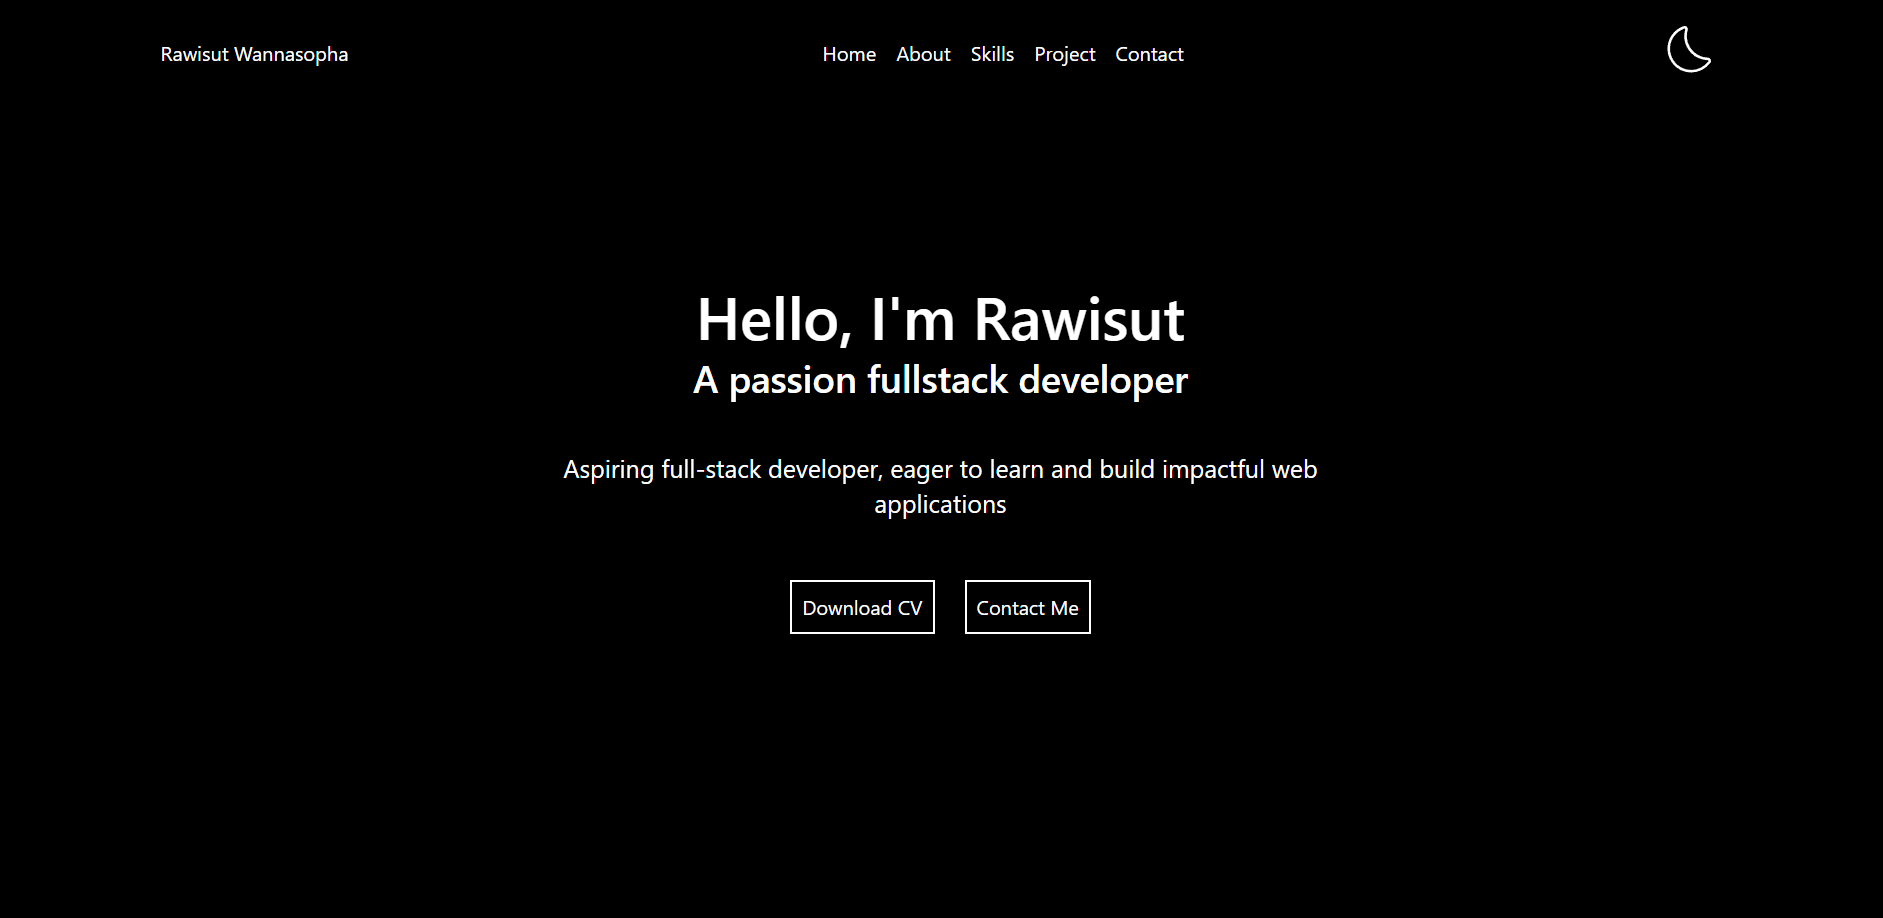
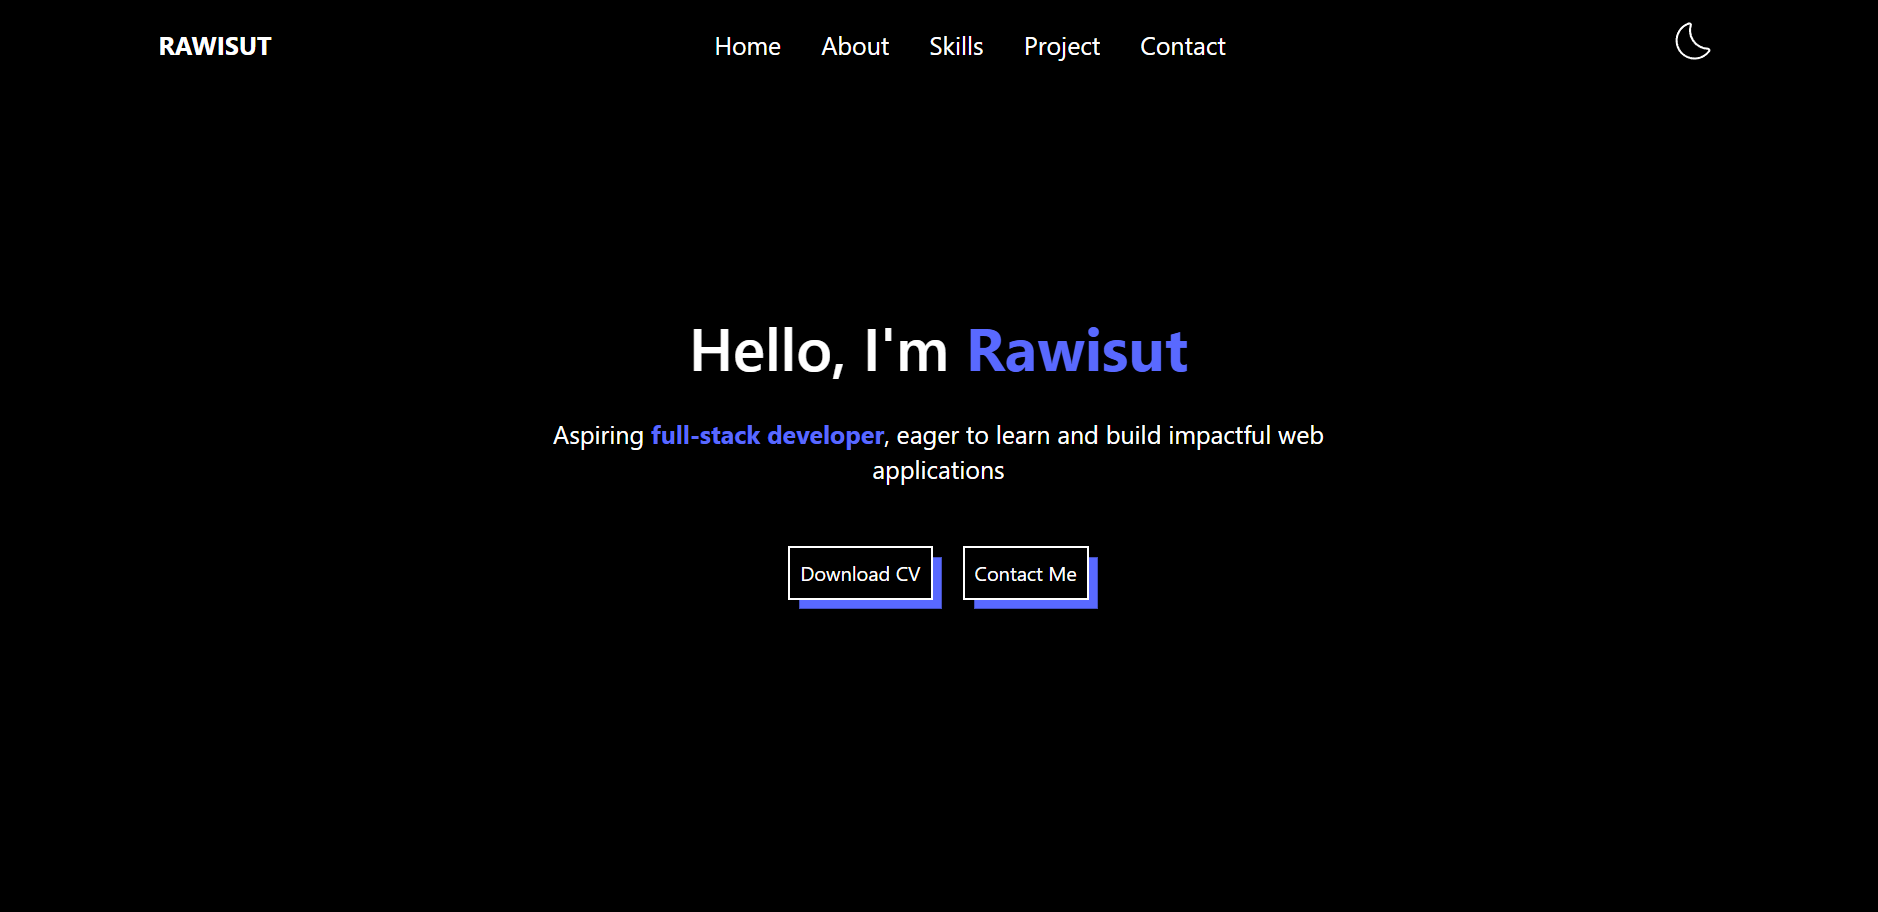
burger menu and responsive

diff --git a/src/components/Navbar.jsx b/src/components/Navbar.jsx
@@ -1,9 +1,15 @@
-import { useContext } from "react";
+import { useContext, useState } from "react";
 import { ThemeContext } from "../context/Theme"
 import { CiLight, CiDark } from "react-icons/ci";
+import { RxHamburgerMenu } from "react-icons/rx";
 
 function Navbar() {
   const { theme, toggleTheme } = useContext(ThemeContext);
+  const [isToggle , setIsToggle ] = useState(false);
+
+  const handleToggle = () => {
+    setIsToggle(!isToggle);
+  }
 
   return (
     <div
@@ -12,10 +18,13 @@ function Navbar() {
         className="bg-background text-clr-primary">
         <div className="max-w-[1280px] mx-auto flex items-center justify-between p-4">
           <span className="text-xl font-bold uppercase">Rawisut</span>
-          <ul className="flex space-x-8 text-ternary">
+          <RxHamburgerMenu size={40} onClick={handleToggle} className="md:hidden" />
+
+          {/* Desktop navbar */}
+          <ul className="flex space-x-8 text-ternary max-md:hidden">
             <li>
               <a className="relative group" href="/#home">
-              Home
+                Home
                 <div className="absolute w-full h-1 scale-x-0 bg-clr-secondary group-hover:scale-x-100 group-hover:top-8 " />
               </a>
             </li>
@@ -53,6 +62,39 @@ function Navbar() {
             </button>
           </div>
         </div>
+
+        {/* Responsive navbar */}
+        { isToggle &&
+          <ul className="flex flex-col items-center w-full h-screen gap-16 pt-8 md:hidden text-ternary">
+          <li onClick={handleToggle}>
+            <a className="relative group" href="/#home">
+              Home
+              <div className="absolute w-full h-1 scale-x-0 bg-clr-secondary group-hover:scale-x-100 group-hover:top-8 " />
+            </a>
+          </li>
+          <li onClick={handleToggle}>
+            <a className="relative group" href="/#about">About
+              <div className="absolute w-full h-1 scale-x-0 bg-clr-secondary group-hover:scale-x-100 group-hover:top-8 " />
+            </a>
+          </li>
+          <li onClick={handleToggle}>
+            <a className="relative group" href="/#skills">Skills
+              <div className="absolute w-full h-1 scale-x-0 bg-clr-secondary group-hover:scale-x-100 group-hover:top-8 " />
+            </a>
+          </li>
+          <li onClick={handleToggle}>
+            <a className="relative group" href="/#project">Project
+              <div className="absolute w-full h-1 scale-x-0 bg-clr-secondary group-hover:scale-x-100 group-hover:top-8 " />
+            </a>
+          </li>
+          <li onClick={handleToggle}>
+            <a className="relative group" href="/#contact">Contact
+              <div className="absolute w-full h-1 scale-x-0 bg-clr-secondary group-hover:scale-x-100 group-hover:top-8 " />
+            </a>
+          </li>
+        </ul>
+        }
+
       </nav>
     </div>
   )

diff --git a/src/pages/Contact.jsx b/src/pages/Contact.jsx
@@ -7,19 +7,24 @@ function Contact() {
   const [state, handleSubmit] = useForm("mzzbqwnn");
 
   return (
-    <section id="contact" className="py-20 text-center bg-background text-clr-primary">
-      <div className="max-w-[1280px] mx-auto flex flex-col items-center space-y-20 h-fit">
+    <section id="contact" className="p-4 py-20 text-center bg-background text-clr-primary">
+      <div className="md:max-w-[1280px] mx-auto w-full flex flex-col items-center space-y-20 h-fit">
         {/* Title */}
         <Heading name="Contact Me" />
-        <div className="flex justify-between gap-8">
-          <div className="flex flex-col justify-center w-1/2 gap-8">
-            <p className="text-ternary">
+        <div className="flex flex-col items-center justify-center gap-8 md:flex-row">
+          <div className="flex flex-col items-center justify-center w-1/3 h-full gap-16 py-8">
+            <p className="text-left text-secondary">
               I&apos;m always open to new opportunities and collaborations. Let&apos;s connect!
             </p>
 
             {/* Contact Options */}
 
-            <div className="flex justify-center gap-8">
+            <div className="space-y-4 text-left font-ternary">
+              <p><span className="font-bold">Email: </span><a href="mailto:tungtung0685@gmail.com">tungtung0685@gmail.com</a></p>
+              <p><span className="font-bold">Phone: </span><span>(+66)-92-259-6056</span></p>
+            </div>
+
+            <div className="flex flex-col justify-center gap-8 sm:flex-row">
               <Button
                 name="Email Me"
                 link="mailto:tungtung0685@gmail.com"
@@ -42,7 +47,7 @@ function Contact() {
           {/* Contact Form */}
           <form
             onSubmit={handleSubmit}
-            className="max-w-md mx-auto w-[50%] bg-background border-clr-primary hover-shadow border-2 b p-6 shadow"
+            className="mx-auto md:w-[40%] w-full bg-background border-clr-primary hover-shadow border-2 p-6 shadow"
           >
             {state.succeeded && (
               <div className="mb-4 font-bold text-green-500">

diff --git a/src/pages/About.jsx b/src/pages/About.jsx
@@ -3,10 +3,10 @@ import Heading from "../components/Heading"
 function About() {
   return (
     <section className="py-20 text-center bg-background text-clr-primary" id="about">
-      <div className="max-w-[1280px] mx-auto flex flex-col items-center space-y-20 h-screen">
+      <div className="max-w-[1280px] mx-auto flex flex-col items-center space-y-20 h-fit md:h-screen">
         <Heading name="About Me" />
-        <div className="flex flex-col items-center gap-4 justify-stretch md:flex-row">
-          <div className="flex justify-center w-1/2">
+        <div className="flex flex-col items-center justify-center gap-4 px-4 md:flex-row">
+          <div className="flex justify-center w-full md:w-1/2">
             <img className="object-contain w-1/2 rounded-lg" src="images/about-img.JPG" alt="about-img" />
           </div>
           <div className="w-1/2 text-left text-ternary">

diff --git a/src/pages/Home.jsx b/src/pages/Home.jsx
@@ -8,7 +8,7 @@ function Home() {
           <h1 className="pb-2 text-primary">Hello, I&apos;m <span className="font-bold text-clr-secondary">Rawisut</span></h1>
           {/* <h1 className="pb-4 text-secondary">A passion fullstack developer</h1> */}
           <br />
-          <p className="pb-6 text-ternary"><span className="font-bold text-clr-secondary">Aspiring full-stack developer</span>, eager to learn and build impactful web applications</p>
+          <p className="pb-6 text-ternary">Aspiring<span className="font-bold text-clr-secondary"> full-stack developer</span>, eager to learn and build impactful web applications</p>
           <br />
           <div className="flex justify-center gap-6">
             <Button

diff --git a/src/pages/Project.jsx b/src/pages/Project.jsx
@@ -4,10 +4,10 @@ import Heading from "../components/Heading";
 
 function Project() {
   return (
-    <section className="bg-background text-clr-primary" id="project">
-      <div className="flex flex-col items-center h-screen pt-20 space-y-16 max-w-[1280px] mx-auto">
+    <section className="p-4 bg-background text-clr-primary" id="project">
+      <div className="flex flex-col items-center h-fit lg:h-screen pt-20 space-y-16 max-w-[1280px] mx-auto">
       <Heading name="Projects" />
-        <div className="flex flex-wrap justify-center gap-10">
+        <div className="grid grid-cols-1 gap-8 lg:grid-cols-3">
           {projects.map((project, index) => (
             <ProjectCard
               key={index}

diff --git a/src/pages/Skills.jsx b/src/pages/Skills.jsx
@@ -4,9 +4,9 @@ import Heading from '../components/Heading'
 function Skills() {
   return (
     <section className="bg-background text-clr-primary" id="skills">
-      <div className="flex flex-col justify-center items-center space-y-20 max-w-[1280px] mx-auto h-screen">
+      <div className="flex flex-col justify-center px-16 items-center space-y-20 max-w-[1280px] mx-auto h-screen">
       <Heading name="My Skill" />
-        <SkillCard className="py-8" />
+      <SkillCard className="py-8 w-fit" />
       </div>
     </section>
   )

diff --git a/src/components/SkillCard.jsx b/src/components/SkillCard.jsx
@@ -17,7 +17,7 @@ function SkillCard() {
     { name: "mongoDb", icon: MongoDB, url: "https://www.mongodb.com/" },
   ];
   return (
-    <div className="flex flex-wrap gap-8">
+    <div className="grid grid-cols-2 gap-8 sm:grid-cols-3 lg:grid-cols-7 md:grid-cols-4">
       {skills.map((skill, index) => (
         <a
           key={index}

diff --git a/index.html b/index.html
@@ -2,7 +2,7 @@
 <html lang="en">
   <head>
     <meta charset="UTF-8" />
-    <link rel="icon" type="image/svg+xml" href="/vite.svg" />
+    <link rel="icon" type="image/svg+xml" href="/letter-r.svg" />
     <meta name="viewport" content="width=device-width, initial-scale=1.0" />
     <title>Rawisut's portfolio</title>
   </head>
